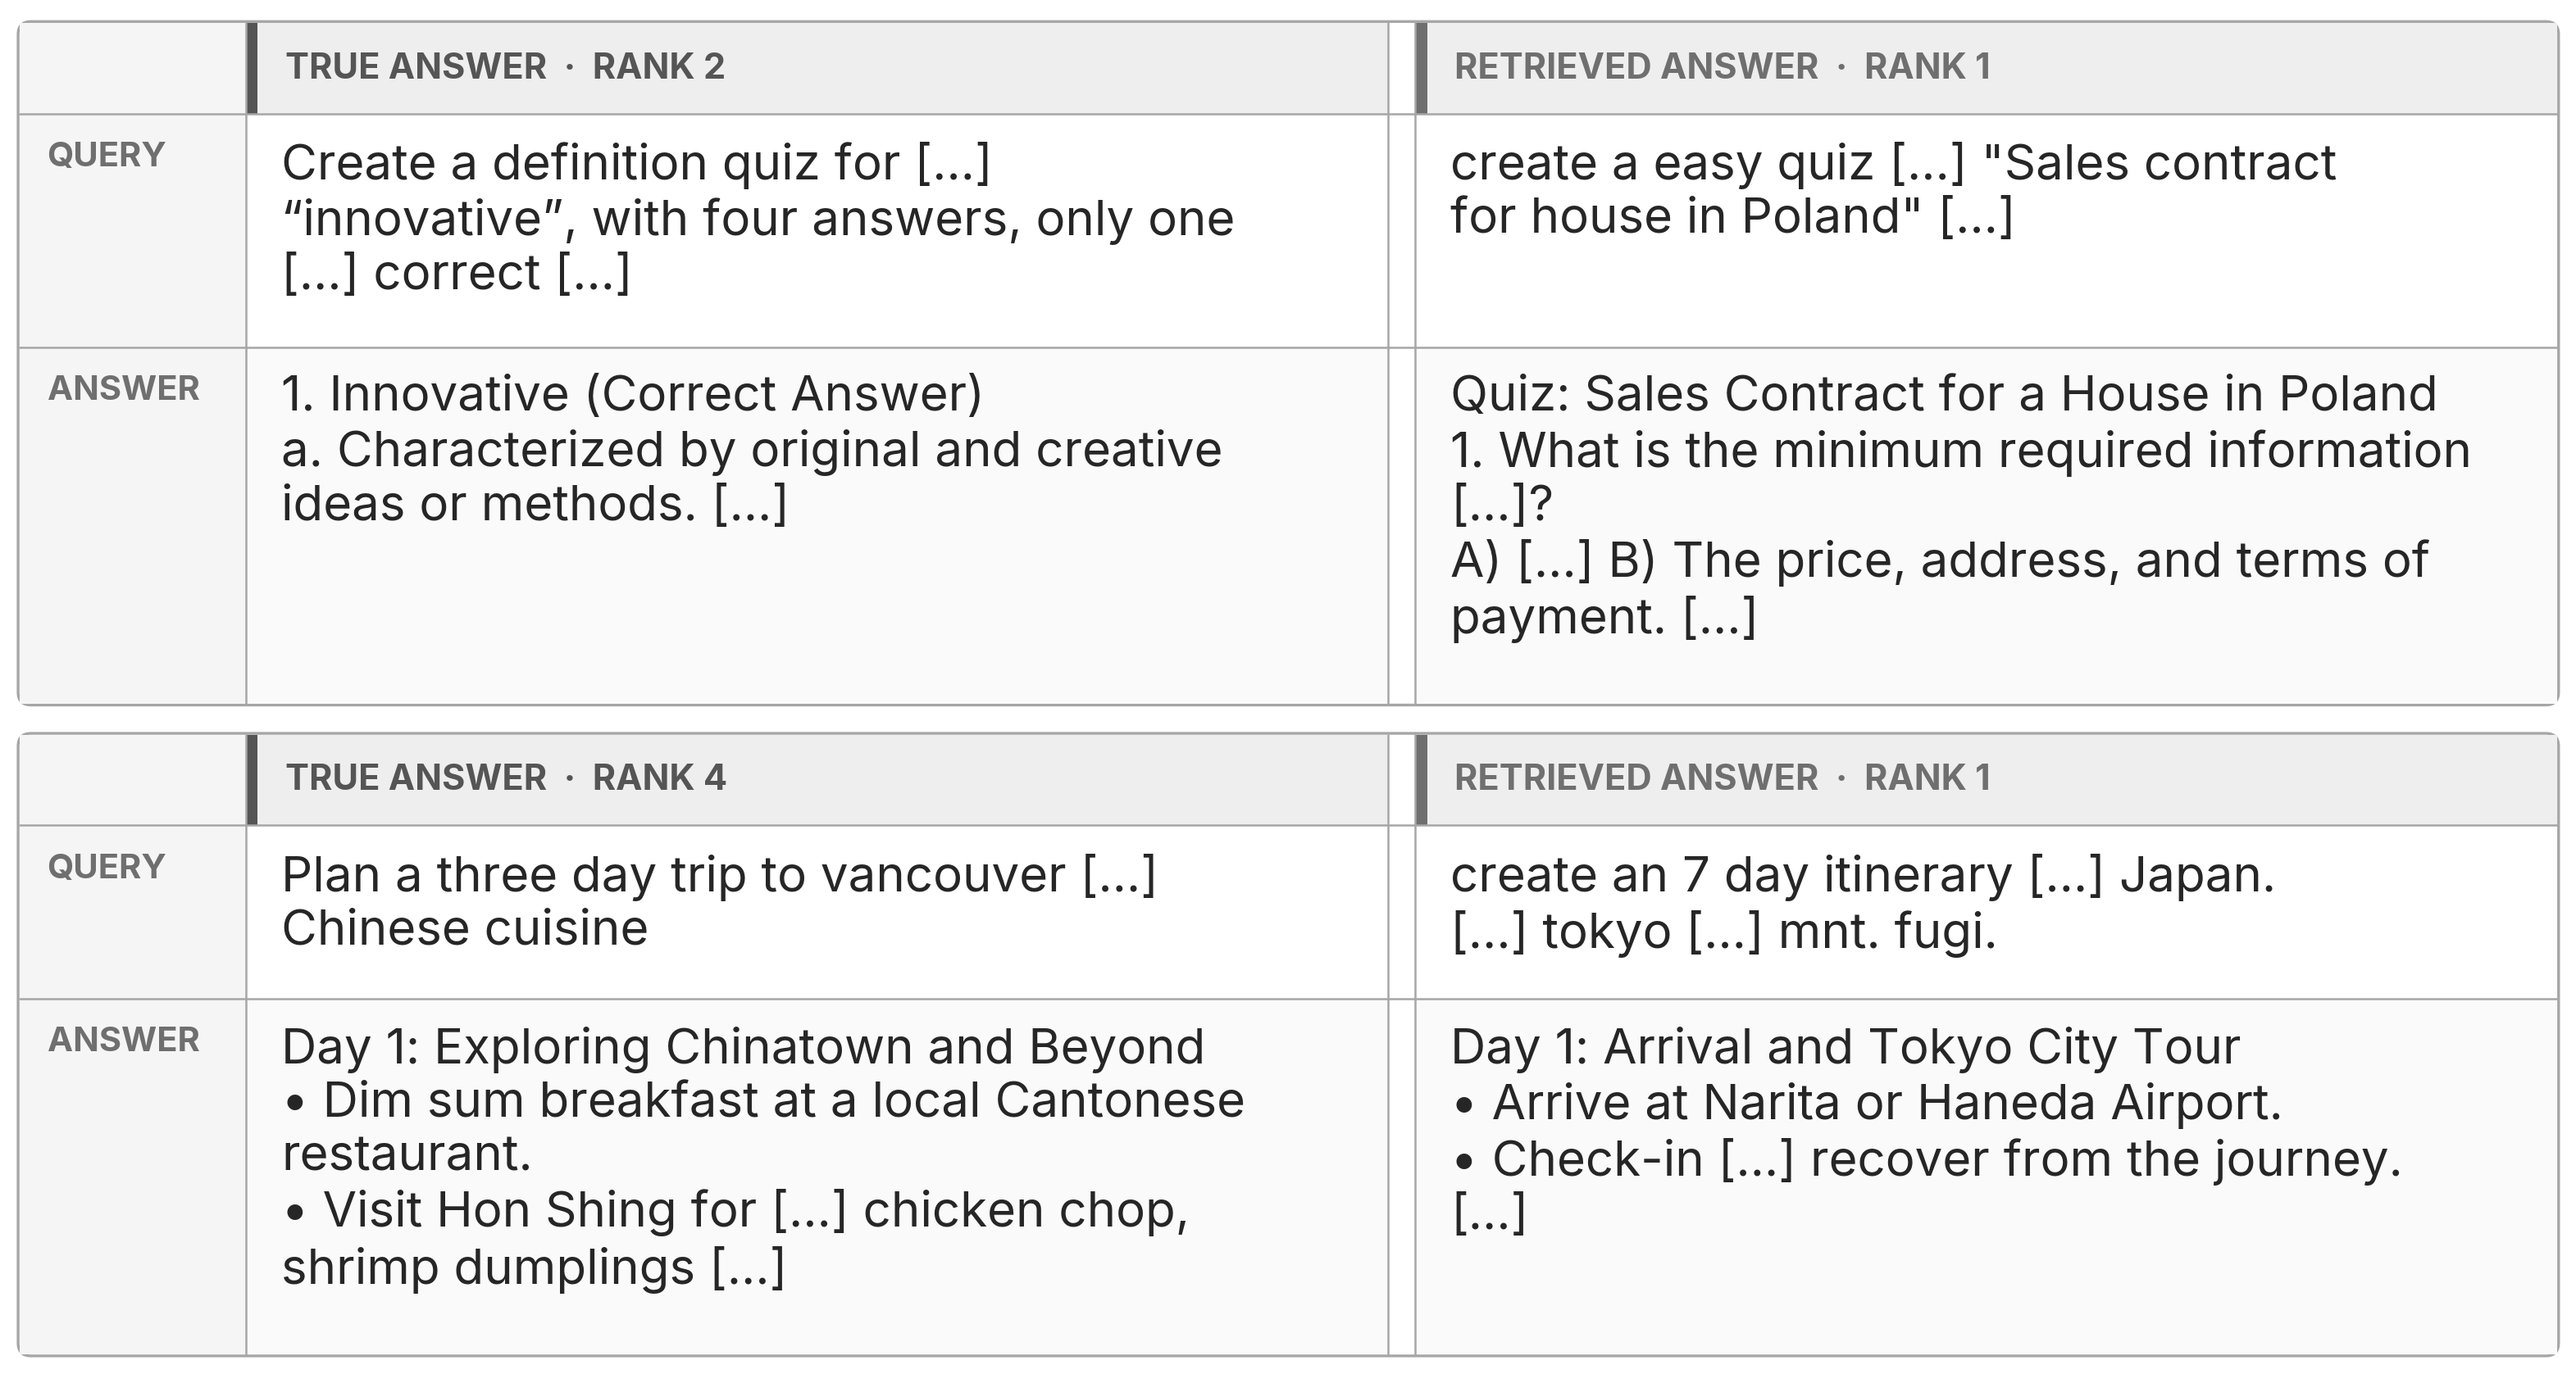
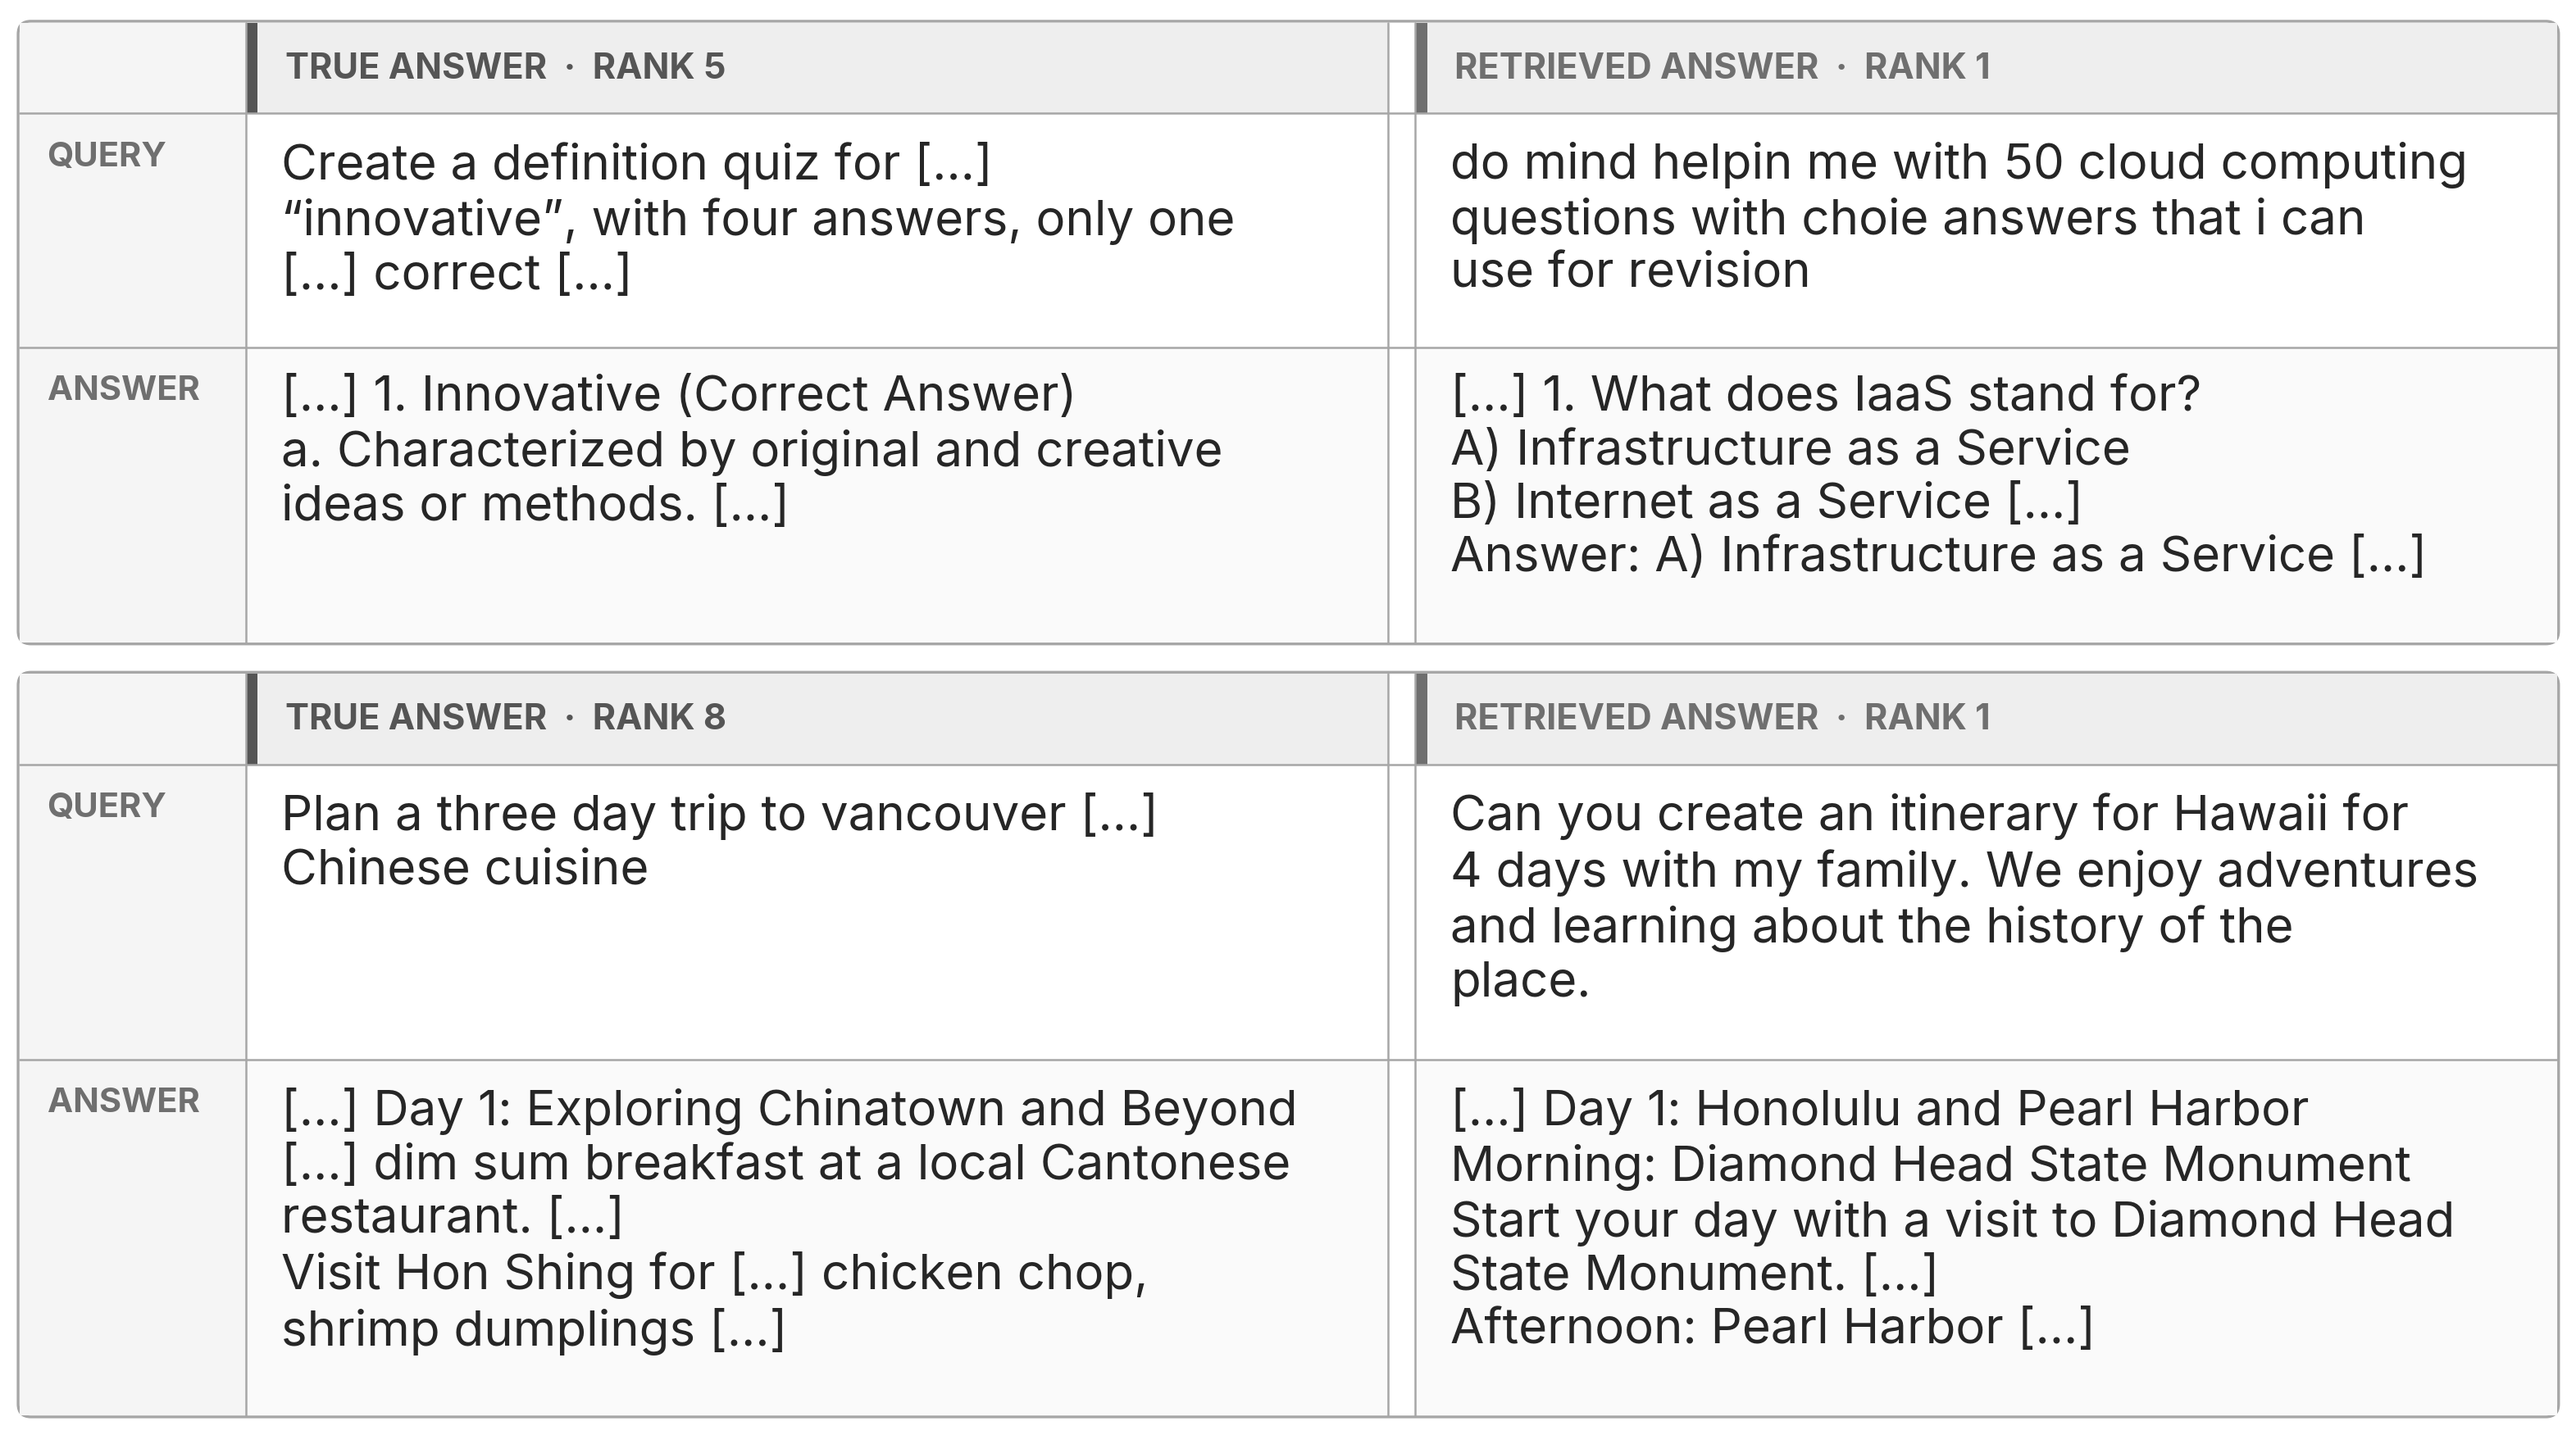
Update qualitative retrieval examples to the 10,000-candidate evaluation

diff --git a/scripts/issue1901_qualitative_retrieval_failures.py b/scripts/issue1901_qualitative_retrieval_failures.py
@@ -6,7 +6,7 @@ the c2a-v2 figure standard (fixed authoring scale, Inter, provenance sidecar).
 Rows may be flat (``rows``) or grouped by failure category (``groups``).
 
 The display-ready text and evaluation provenance live in
-``eval_results/issue_1901/content_divergent_retrieval_examples.json``.
+``eval_results/issue_1901/content_divergent_retrieval_examples_10k.json``.
 """
 
 from __future__ import annotations
@@ -46,13 +46,14 @@ from explore_persona_space.analysis.c2a_plot_style import (  # noqa: E402
     set_c2a_style,
 )
 
-DEFAULT_INPUT = ROOT / "eval_results/issue_1901/content_divergent_retrieval_examples.json"
+DEFAULT_INPUT = ROOT / "eval_results/issue_1901/content_divergent_retrieval_examples_10k.json"
 DEFAULT_OUTPUT = ROOT / "figures/paper/c3_qualitative_discrimination"
 # Manuscript selection (Thomas 2026-09-03: "change figure 4 to only have 2 examples",
-# drop the Django pair). Pass --row-ids all to render every banked row.
+# drop the Django pair). Updated to the 10,000-candidate pairs on 2026-09-23.
+# Pass --row-ids all to render every banked row.
 MANUSCRIPT_ROW_IDS: tuple[str, ...] = (
-    "vocabulary_to_property_quiz",
-    "vancouver_to_japan_itinerary",
+    "vocabulary_to_cloud_computing_quiz",
+    "vancouver_to_hawaii_itinerary",
 )
 
 TRUE = ROLES["linear"].color
@@ -381,7 +382,7 @@ def main() -> None:
     )
     plt.close(fig)
     metadata = {
-        "status": "Results Section 4.2 manuscript figure",
+        "status": "Appendix B qualitative retrieval examples",
         "style_version": STYLE_VERSION,
         "plotting_script": "scripts/issue1901_qualitative_retrieval_failures.py",
         "style_module": "src/explore_persona_space/analysis/c2a_plot_style.py",
@@ -397,6 +398,7 @@ def main() -> None:
         "input_sha256": hashlib.sha256(raw).hexdigest(),
         "render": outputs["record"],
         "selection": data["selection"],
+        "provenance": data.get("provenance", {}),
         "evaluation": data["evaluation"],
         "output_sha256": {
             kind: hashlib.sha256(Path(path).read_bytes()).hexdigest()
